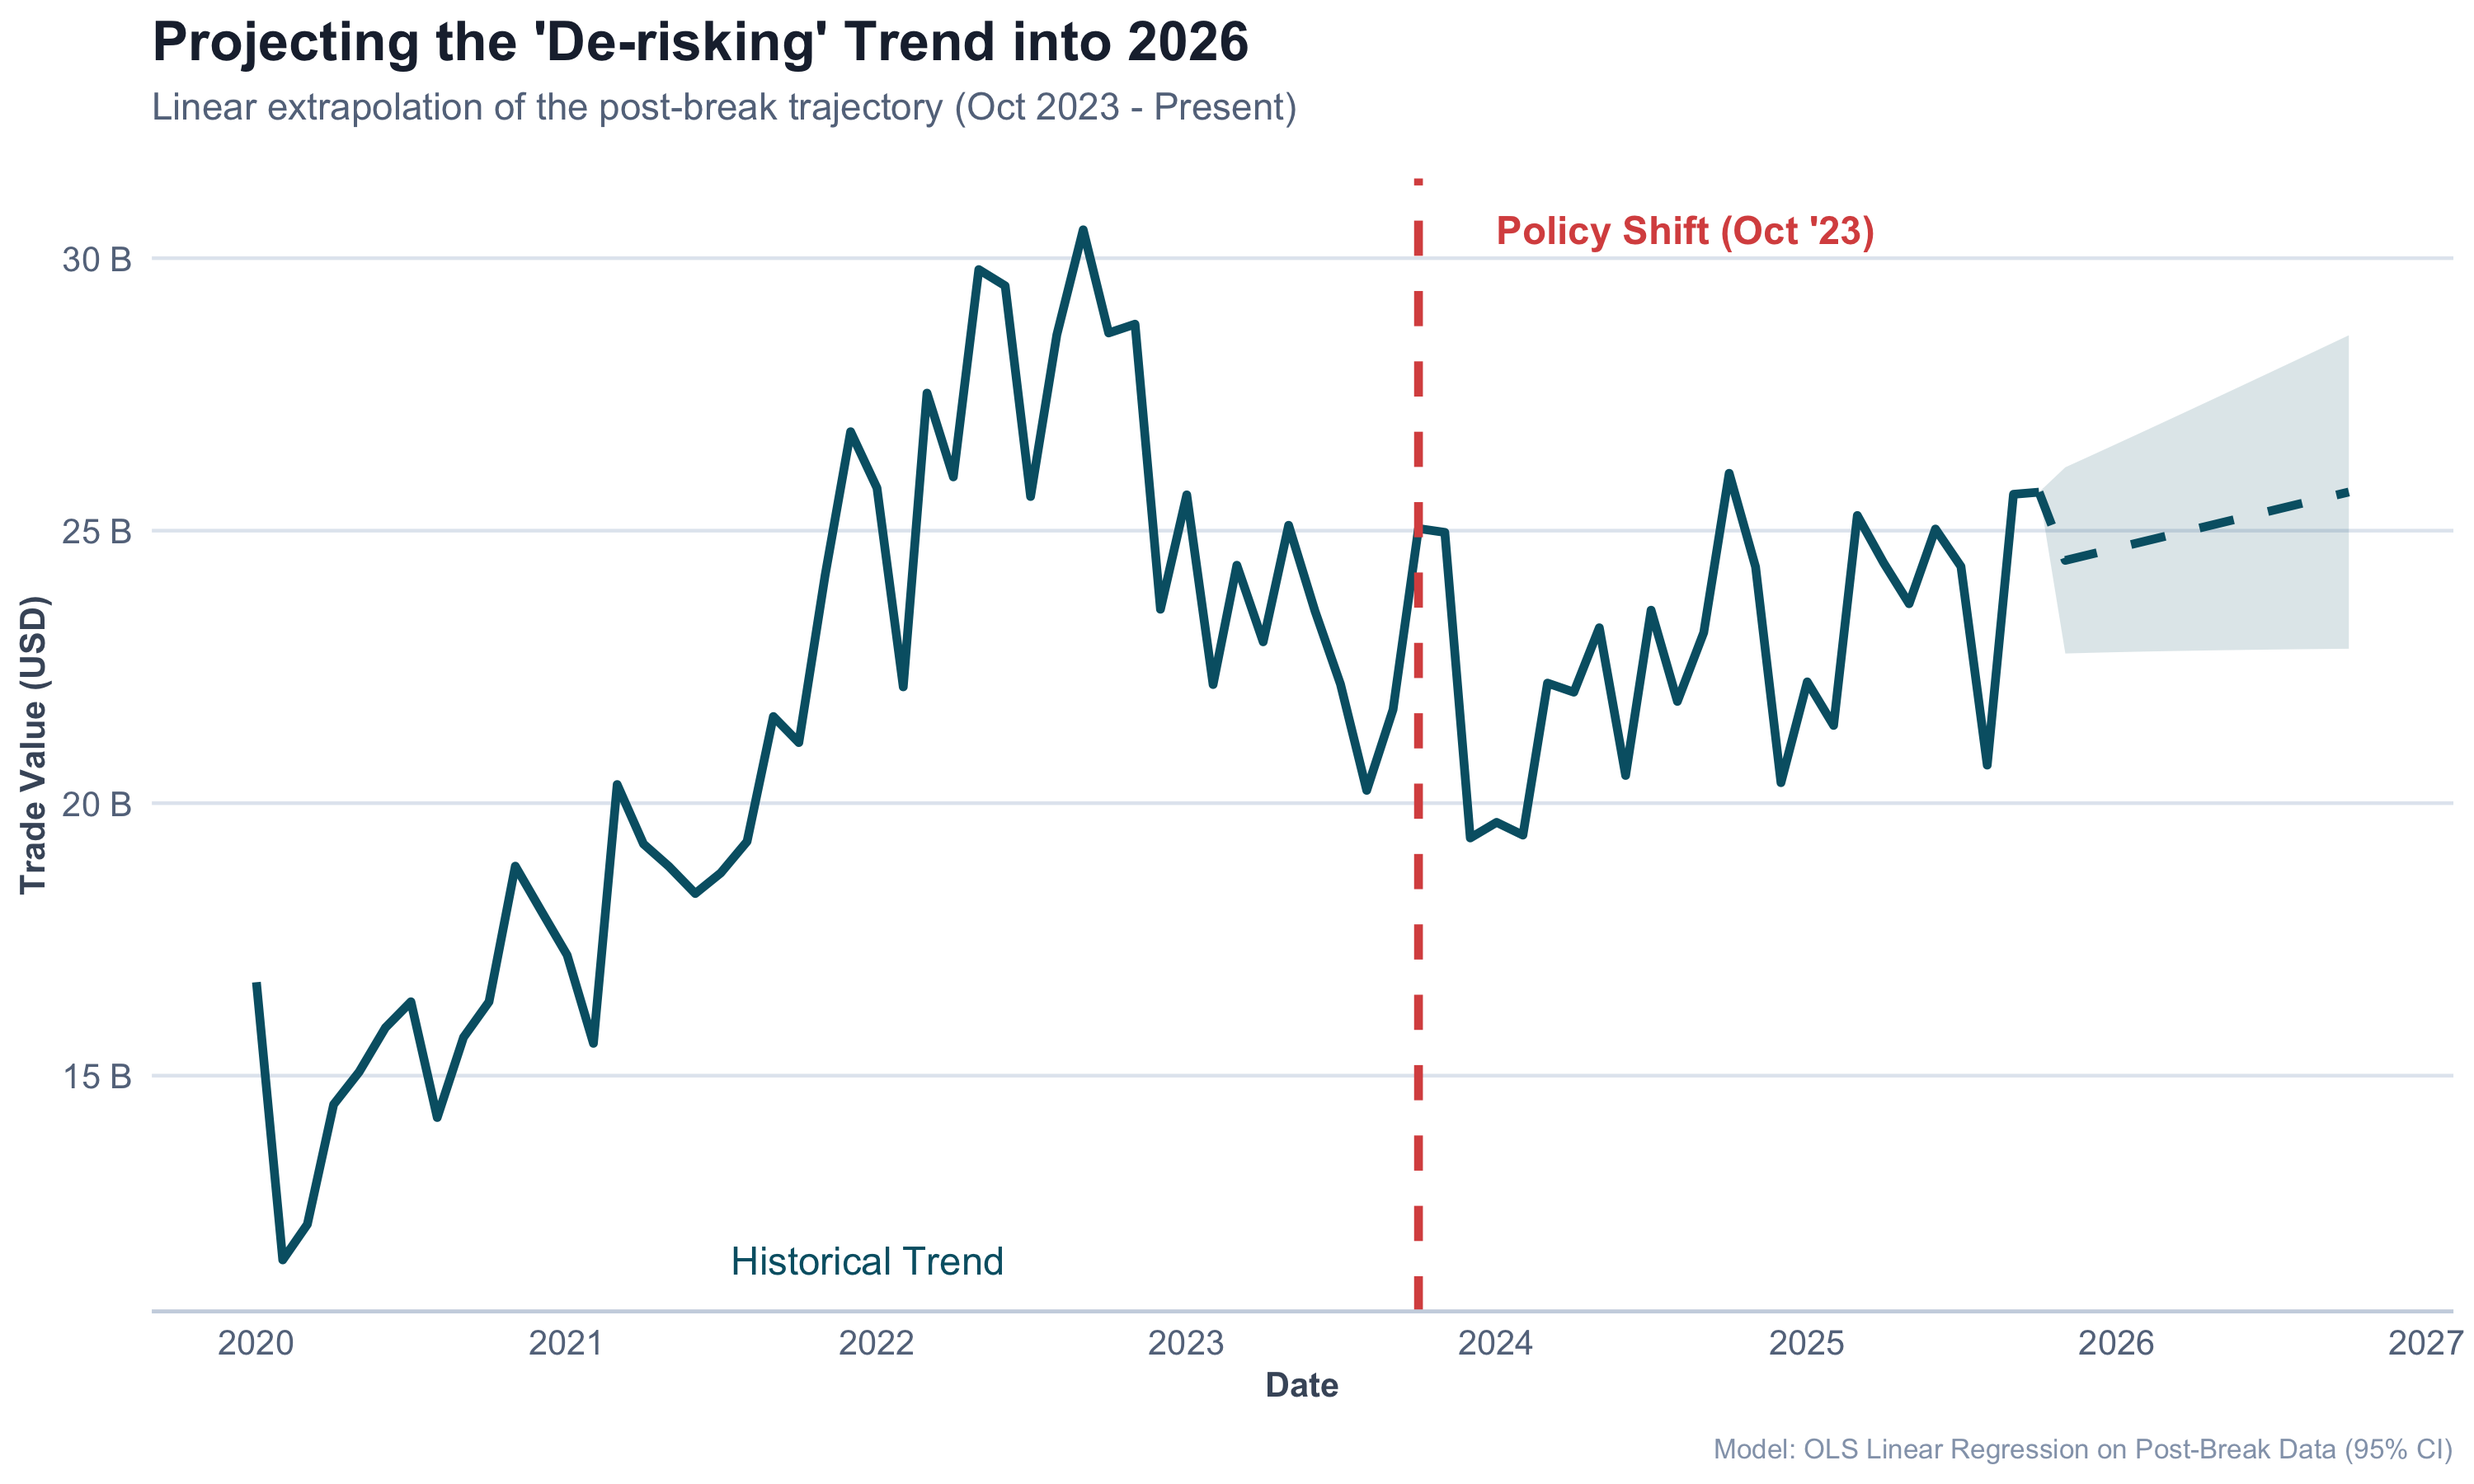
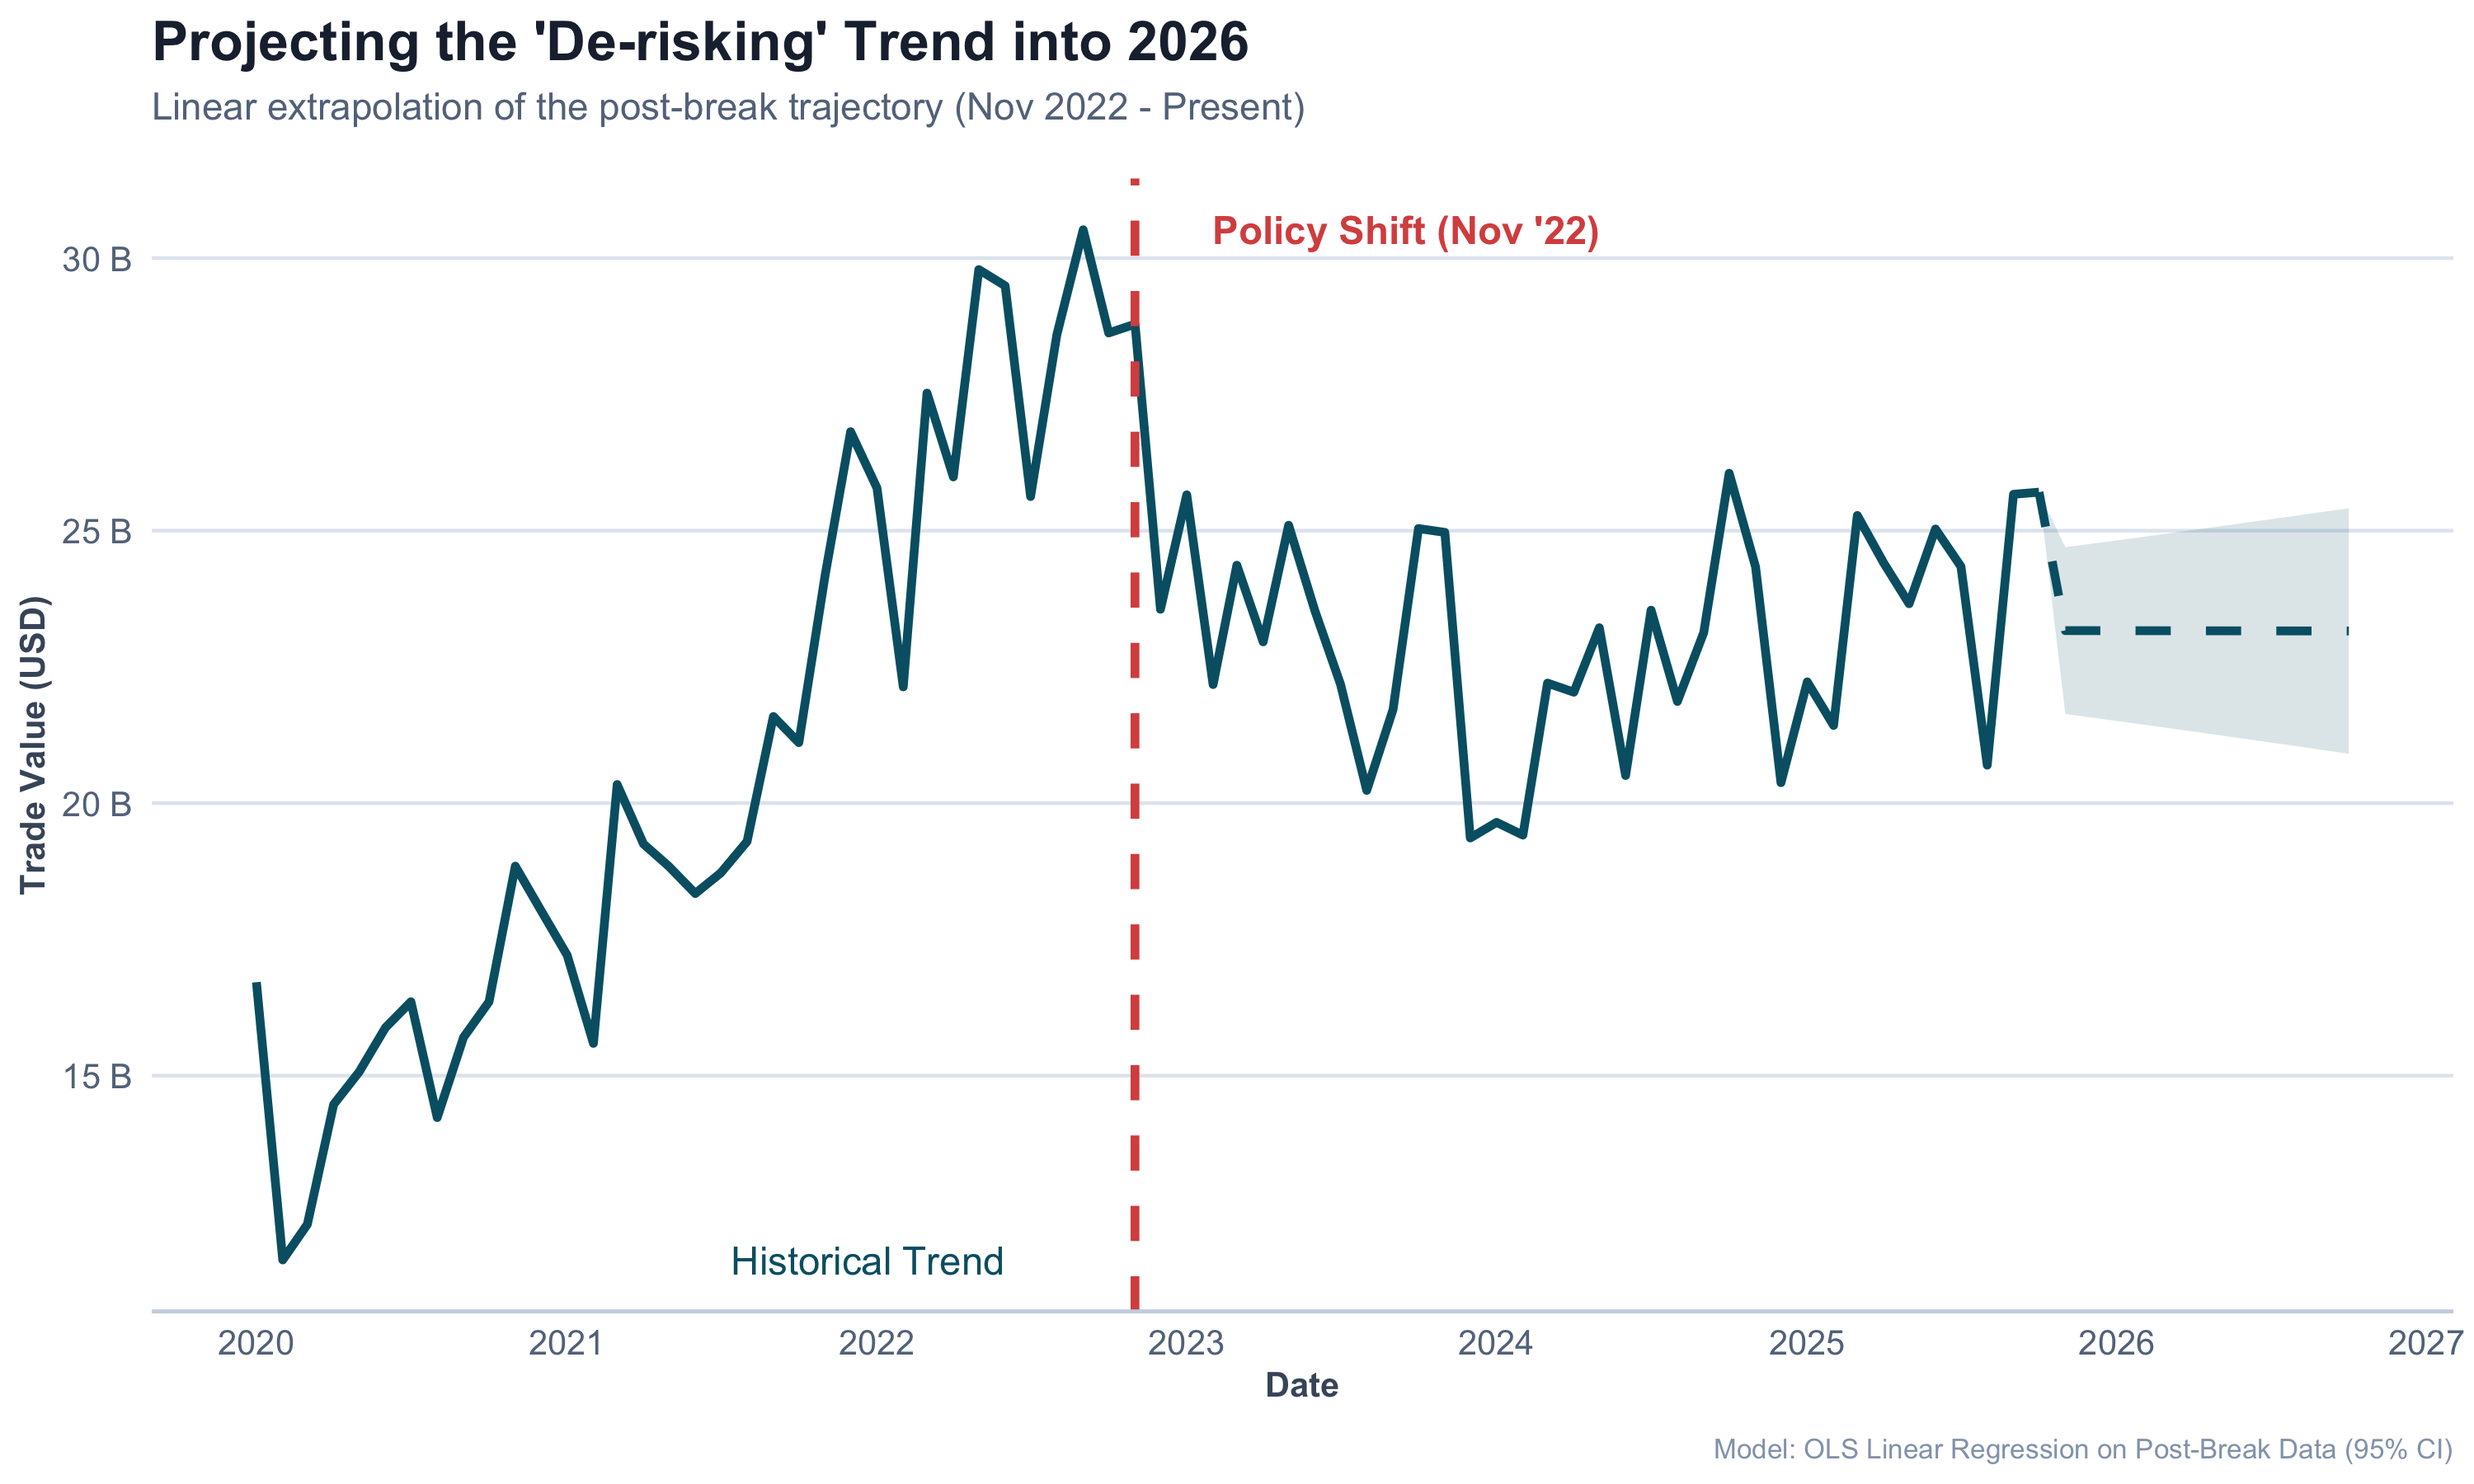
Automation / Reproducability features added

diff --git a/README.md b/README.md
@@ -49,6 +49,7 @@ coinciding with the EU Economic Security Strategy implementation (lagged effect)
 **Hypothesis:**
 * **Null Hypothesis ($H_0$):** No structural break exists (trend is stable).
 * **Break Point Tested:** October 2023 (Implementation Lag of Economic Security Strategy).
+* **Timeframe Note:** The structural break analysis (`08_strucchange.R`) intentionally restricts the search window to start from **January 2022** (excluding 2020-2021 data). This was done to filter out the extreme "COVID Recovery Noise" (e.g., supply chain bullwhip effects in late 2021) that would otherwise mask the more subtle policy-driven break in late 2023.
 
 **Assumption Verification (Pre-Conditions):**
 To ensure the validity of the Chow test, we performed the following diagnostic checks on the linear model residuals (Script `07_precon_check.R`):
@@ -104,5 +105,6 @@ Oct 2023 (p < 0.001), but the magnitude differs dramatically:
 9. Run `09_strucchange_control.R` - Confirm / Deny hypotheses of decoupling mechanism
 10. Run `10_prediction.R` - Forecast/Prediction models
 11. Run `14_dashboard_v3.R` - The main interactive dashboard
+12. Run `15_update_documentation.R` - Automatically updates this README with the latest stats
 
 
